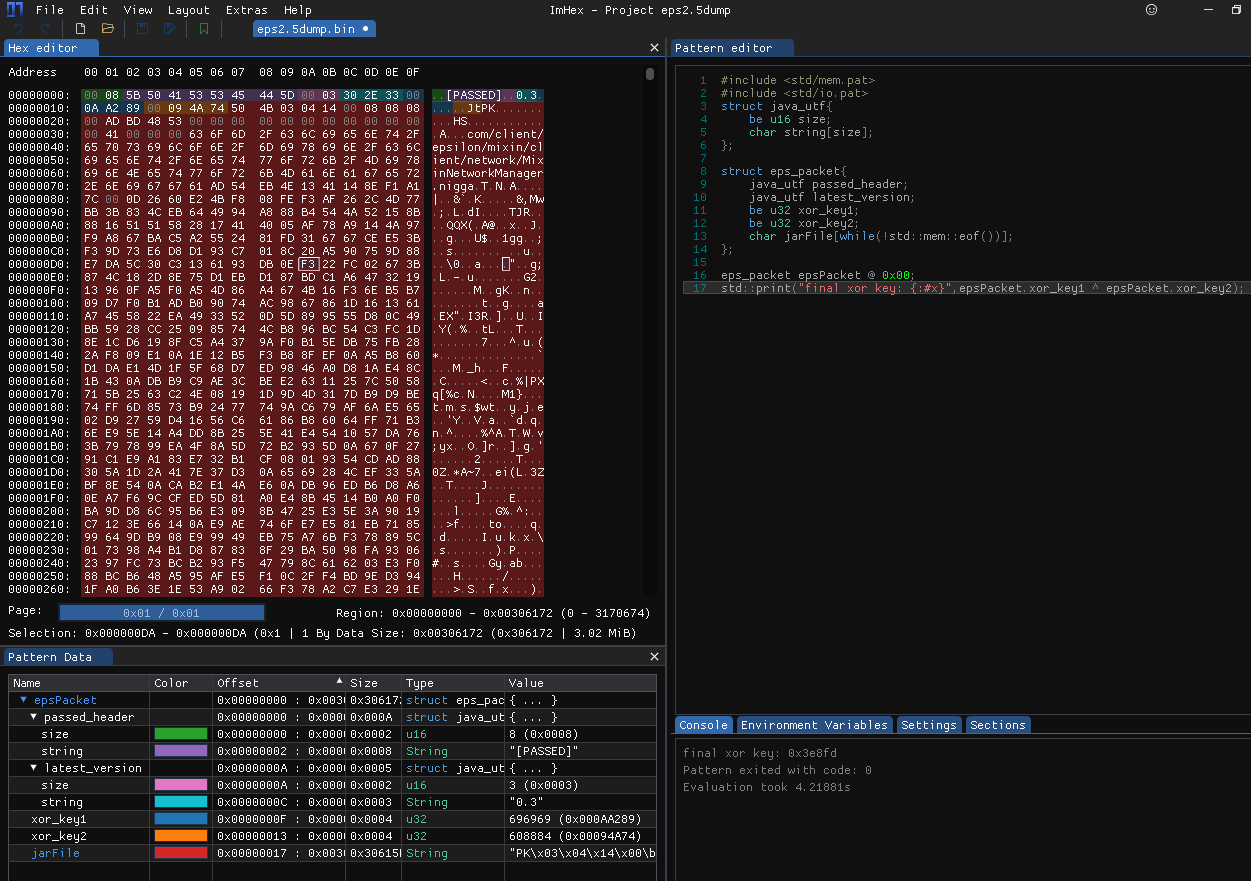
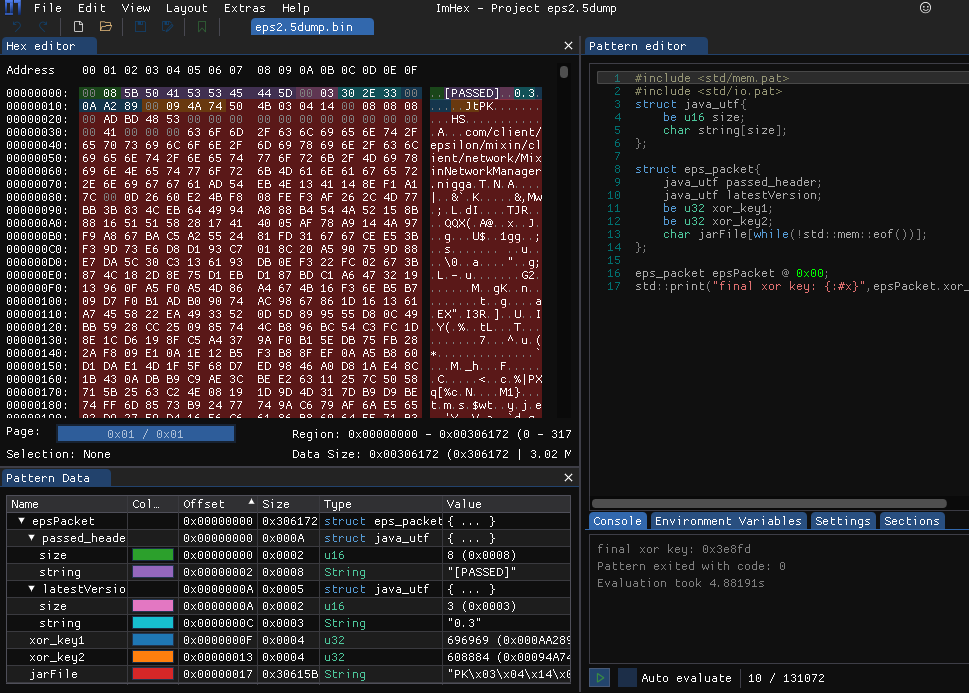
improve syntax

diff --git a/_posts/2023-01-22-Defeating-Epsilon-Loader-V0.34-Vol-3.md b/_posts/2023-01-22-Defeating-Epsilon-Loader-V0.34-Vol-3.md
@@ -2,7 +2,7 @@
 title: "Defeating Epsilon Loader V0.34 Vol. 3: Packet Encryption"
 date: 2023-06-13
 tags: [reverse-engineering, jvm, cryptography, network-packet]
-authors: [BotDebug, Trdyun, Xiguajerry]
+authors: [BotDebug, Trdyun, SagiriXiguajerry]
 img_path: /assets/eloader034-p3/
 ---
 
@@ -12,24 +12,26 @@ The following pseudocode snippets are **heavily** beautified. You may not be abl
 
 ## Intro
 
-As we've already known, epsilon loader implemented some sort of encryption on networked packets so that crackers can't parse them directly and use them for their advantage.
-So today we’ll go into detail about how we broke their encryption.
+As we've already known, epsilon loader implemented some sorts of encryption on network packets so that crackers can't parse them directly and use them for their advantage.
+
+So today we’ll go into details about how we broke their encryption.
 
 ## Analysis of Authentication Process
 
-If you have ever tried to capture epsilon loader's network packet, you might be surprised by its "plain-text" client-to-server packets and encrypted server-to-client packets.
+If you have ever tried to capture epsilon loader's network packets, you might be surprised by its "plain-text" client-to-server packets and encrypted server-to-client packets.
 
 As a result, the content of the client-to-server packet except the hwid string can be parsed in ease. Just as the image below:
-![未找到图片：client-to-server.png](client-to-server.png "未找到图片：client-to-server.png")
+![client-to-server.png](client-to-server.png)
 
-Once we look at the related code (too long to put in the article TAT ) in the `$$$$$$$$ESKID$$$$$$$$$c.b()` we figure that the hwid string was composed by several system specifications, provided by `System.getenv()`, `System.getProperty()` and `Runtime.getRuntime().availableProcessors()`:
-![未找到图片：hwid.png](hwid.png "未找到图片：hwid.png")
+Once we look at the related code (too long to put in the article TAT ) in the `$$$$$$$$ESKID$$$$$$$$$c.b()` we figured that the hwid string is composed of several system specifications, given by `System.getenv()`, `System.getProperty()` and `Runtime.getRuntime().availableProcessors()`:
+![hwid.png](hwid.png)
 
-Finally the hwid string was encrypted by multiple ciphers, such as `sha-256`, `sha-1`, `sha-512`.
+Finally, the hwid string was encrypted by multiple ciphers, such as `sha-256`, `sha-1`, `sha-512`.
 
 ## Analysis of Encrypted Server-to-Client Packet
 
 Then we tracking down the code of authentication and found several server-to-client packets:
+
 ```java
 String passed = inStream.readUTF();
 //checking the head packet to determain whether the authentication is passed
@@ -48,11 +50,13 @@ if (passed.equals("[PASSED]")){
         //insert zip parsing process here
 ```
 
-As you can see from the pseudocode above, there were 2 checks: authentication check and loader version check. 
+As you can see in the pseudocode above, there were 2 checks: authentication check and loader version check.
 
 Once all the checks were passed, it would start to receive a stream of the jar file and parse all the files in it.
 
-However there are 2 suspicious integer packets we haven't know their function: `unknown1` and `unknown2`, both of them were received before the jar, so they should have some important roles.
+However there are 2 suspicious integer packets we haven't know their function: `unknown1` and `unknown2`, both of them were received before the jar.
+
+Consequently, they should have some important roles.
 
 Rolling down just a little we could find pseudocode like this:
 ![form_final_key](form_final_key.png)
@@ -65,35 +69,38 @@ With the information we gathered, the whole server-to-client packet can be parse
 ![parsed_packet](parsed_packet.png)
 
 The whole process can be summarized as this diagram:
-![未找到图片：decryption_process.png](decryption_process.png "未找到图片：decryption_process.png")
+![decryption_process.png](decryption_process.png)
 
 ## Bonus: Bug Hunting
 
-###  Data loss in narrowing primitive conversion
-At the early stage of our analyze, we tried to brute-force the XOR key in order to bypass the most annoying process and minimize the time expense. 
+### Data loss in narrowing primitive conversion
 
-Despite of the same result, the XOR key we brute-forced out was a single byte: 0xfd instead of the 32-bit integer we calculated from the network packets later : 0x3e8fd.
+At the early stage of our analysis, we tried to brute-force the XOR key in order to bypass the most annoying process and minimize the time expense.
+
+Despite of the same result, the XOR key we brute-forced out was a single byte: 0xfd, instead of the 32-bit integer 0x3e8fd that we calculated from the network packets later.
 
 That anomaly aroused our interest in finding its root cause, so we carefully checked the class decryption process and found something wrong with the type:
 ![data_loss](data_loss.png)
 
-Just as the image shows, while you converts 32-bit integer to 8-bit byte, there may be a data loss because of the narrowed data size.
+Just as the image shows, the convertion from 32-bit integer to 8-bit byte can result in data loss because of the narrowed data size.
 
 As a result, all but the 8 lowest bits were discarded in the narrowing primitive conversion.([JLS §5.1.3](https://docs.oracle.com/javase/specs/jls/se20/html/jls-5.html#jls-5.1.3))
 
-###  XOR operation
+### XOR operation
+
 What about the xor operation?
-![未找到图片：xor_operation.png](xor_operation.png "未找到图片：xor_operation.png")
+![xor_operation.png](xor_operation.png)
 
 Xor operation happens in binary level and calculates bit by bit.
 
 The calculation rules are as follow:
+
 * If the bits at the ith position are the same we put 0 at that position.
 * Else if the bits at the ith position are different we put 1 at that position.
 
-It turns out that even without the higher bits, the calculation process of the lowest 8-bits are still unaffected because of the bit by bit calculation rule.
+It turns out that even without the higher bits, the calculation process of the lowest 8-bits are still unaffected because of the bit-by-bit calculation rule.
 
-As the final decryption result we need is a single byte, the only necessity is the lowest 8-bits and the higher bits above 8 are useless.
+As the final decryption result we need is a single byte, the only necessity is the lowest 8-bits and the rest are useless.
 
 What a tragic for eridani club  ^ ^
 ![meme](meme.jpg)

diff --git a/_posts/2022-02-28-Defeating-Epsilon-Loader-V0.34-Vol-1.md b/_posts/2022-02-28-Defeating-Epsilon-Loader-V0.34-Vol-1.md
@@ -2,13 +2,13 @@
 title: "Defeating Epsilon Loader V0.34 Vol. 1: InvokeDynamic"
 date: 2022-02-28
 tags: [reverse-engineering, jvm, indy, cryptography]
-authors: [BotDebug, Trdyun, Xiguajerry]
+authors: [BotDebug, Trdyun, SagiriXiguajerry]
 img_path: /assets/eloader034-p1/
 ---
 
-Epsilon Loader V0.34 had been considered as "STRONG obfuscated" as well as "uncrackable" by the 2B2T community for a long time. 
+Epsilon Loader V0.34 had been considered as "STRONG obfuscated" as well as "uncrackable" by the 2B2T community for a long time.
 
-It was also widely believed that the authentication and verification part of Epsilon is achieved in the DLL[^1]. 
+It was also widely believed that the authentication and verification part of Epsilon is achieved in the DLL[^1].
 
 So let's look inside the DLL and the related JVM classes to determine what role the DLL plays and find out the way to exploit it.
 
@@ -22,7 +22,7 @@ It's so lucky that the dll's filename was not encrypted. Taking advantages of th
 
 ## Indy[^2] In Action
 
-After analysing `clinit` a bit, we can observe that there are many occurences of `invokedynamic` instructions. (More information about `invokedynamic`: https://blogs.oracle.com/javamagazine/post/understanding-java-method-invocation-with-invokedynamic)
+After analysing `clinit` a bit, we can observe that there are many occurences of `invokedynamic` instructions. (More information about `invokedynamic`: <https://blogs.oracle.com/javamagazine/post/understanding-java-method-invocation-with-invokedynamic>)
 
 For instance, look at the following `invokedynamic` instruction:
 
@@ -71,7 +71,7 @@ INVOKESTATIC ESKID.b (Ljava/lang/String;)Ljava/lang/String;
 <working with the decoded string>
 ```
 
-Bytecode above is the pattern of the string decryption. 
+Bytecode above is the pattern of the string decryption.
 
 It's certain that `ESKID.b` is the method for string decryption in this case.
 
@@ -81,9 +81,9 @@ Then we can take a glance at the method `ESKID.b` :
 
 (Screenshot above is the last part of `ESKID.b`'s CFG.)
 
-As you can see, there are plenty of junk codes. 
+As you can see, there are plenty of junk codes.
 
-But after analyzing the crucial part of the CFG above, we can assume that there is a loop which traverses every `char` of the obfuscated string. 
+But after analyzing the crucial part of the CFG above, we can assume that there is a loop which traverses every `char` of the obfuscated string.
 
 That loop turns out to be the encrypting routine.
 
@@ -105,7 +105,7 @@ fun decrypt(enc: String): String {
 
 With the information gathered from the previous section, we can finally get rid of the annoying invokedynamics and reveal the true invocation.
 
-However, Every obfuscated class has a unique XOR key despite of the same decryption algorithm. 
+However, Every obfuscated class has a unique XOR key despite of the same decryption algorithm.
 
 What's worse, the XOR key is protected by junk code. That's a stumbling block we have to deal with.
 
@@ -137,7 +137,7 @@ if (callDecryptor == null) {
 MethodNode decryptor = TransformerHelper.findMethodNode(classNode, callDecryptor.name, callDecryptor.desc);
 ```
 
-During the previous section, we have known that the value of the top stack frame is the key when the last `ixor` instruction is about to be executed by JVM. 
+During the previous section, we have known that the value of the top stack frame is the key when the last `ixor` instruction is about to be executed by JVM.
 
 Therefore, we can analyze how the stack changes and grab the top-stack value as the XOR key.
 

diff --git a/_posts/2022-03-19-Defeating-Epsilon-Loader-V0.34-Vol-2.md b/_posts/2022-03-19-Defeating-Epsilon-Loader-V0.34-Vol-2.md
@@ -2,7 +2,7 @@
 title: "Defeating Epsilon Loader V0.34 Vol. 2: JNI Protection"
 date: 2022-03-19
 tags: [reverse-engineering, jvm, jni, deobfuscation]
-authors: [BotDebug, Trdyun, Xiguajerry]
+authors: [BotDebug, Trdyun, SagiriXiguajerry]
 img_path: /assets/eloader034-p2/
 ---
 
@@ -53,7 +53,7 @@ However, its cross-platform functionality is actually deformed because of the ab
 
 ### 2.Extracting and loading
 
-Because of some technical restrictions, the DLLs in the jar could not be loaded directly. 
+Because of some technical restrictions, the DLLs in the jar could not be loaded directly.
 
 Thus it's necessary to extract the DLL as a temporary file before loading it.
 
@@ -76,7 +76,7 @@ System.load(tempDllFile.getAbsolutePath());
 
 ## Diving into the DLL
 
-In an attempt to learn more about the native methods in the DLL, we analysed some of the other methods under the package `com/loader/epsilon` . 
+In an attempt to learn more about the native methods in the DLL, we analysed some of the other methods under the package `com/loader/epsilon`.
 
 To our surprise, most of the invocations were pointed to the native methods. So it's time to analyse the DLL.
 
@@ -111,7 +111,7 @@ Then we followed the jump to the function `Java_ESKID_AwUlqtUfLk_0` :
 .text:0000000180009EE7 Java_ESKID_AwUlqtUfLk_0 endp
 ```
 
-Subsequently we can observe 3 strings as arguments for the **single** `call`. 
+Subsequently we can observe 3 strings as arguments for the **single** `call`.
 
 We can assume that these plain strings are class name, method name and signature.
 
@@ -119,7 +119,7 @@ We can assume that these plain strings are class name, method name and signature
 
 In turn we seek to the function `j_CallStaticObjectMethod` which turns out to be another thunk function which jumps to the function `CallStaticObjectMethod` .
 
-### Inlined JNI function 
+### Inlined JNI function
 
 The pseudocode of the function looks like this:
 
@@ -147,7 +147,7 @@ The whole life-cycle of the obfuscated JVM method invocations can be summarize a
 
 ![realCall](realCall.png)
 
-In JVM layer, the invocations were hidden by the `invokedynamic` instruction and its invocation to the JNI method will be resolved during runtime. 
+In JVM layer, the invocations were hidden by the `invokedynamic` instruction and its invocation to the JNI method will be resolved during runtime.
 
 Finally the JNI functions in the DLL invoke the real target java method.
 
@@ -335,4 +335,4 @@ Thanks Juanye for encouraging us:
 
 ![juanye_laughs](juanye_laughs.png)
 
-![未找到图片：juanye_laughs_p2.png](juanye_laughs_p2.png "未找到图片：juanye_laughs_p2.png")
+![juanye_laughs_p2.png](juanye_laughs_p2.png)
